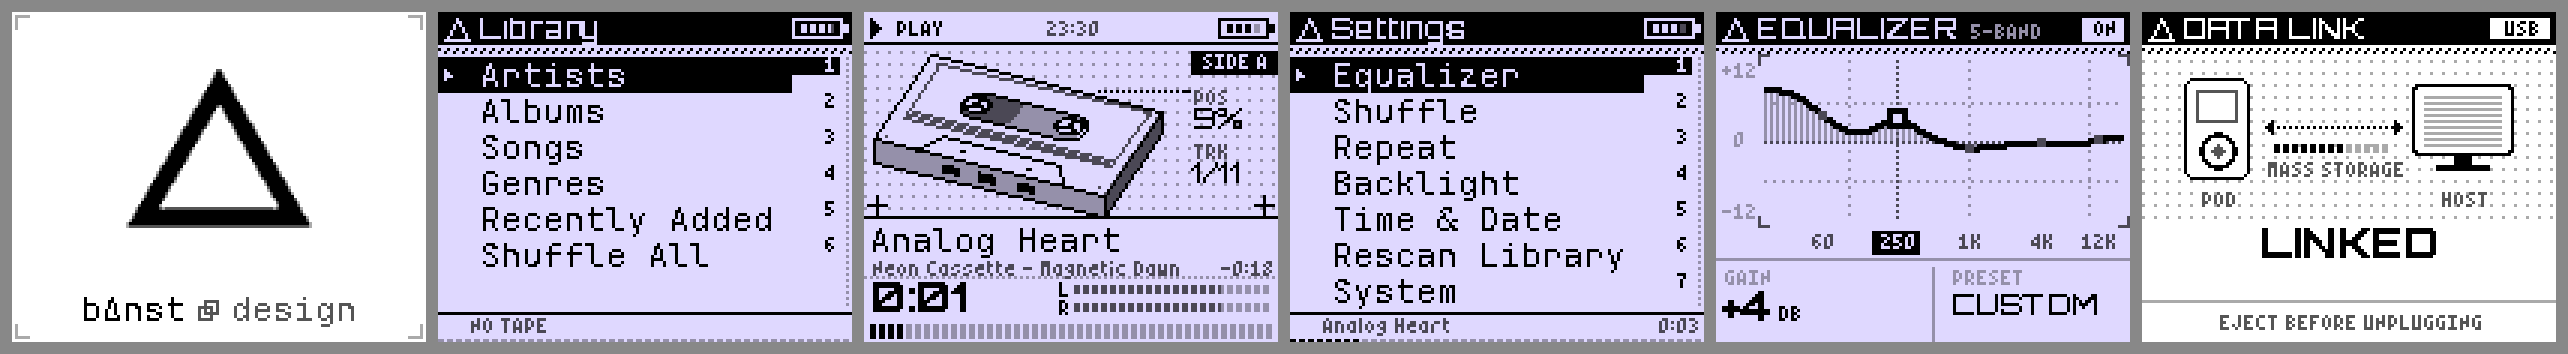
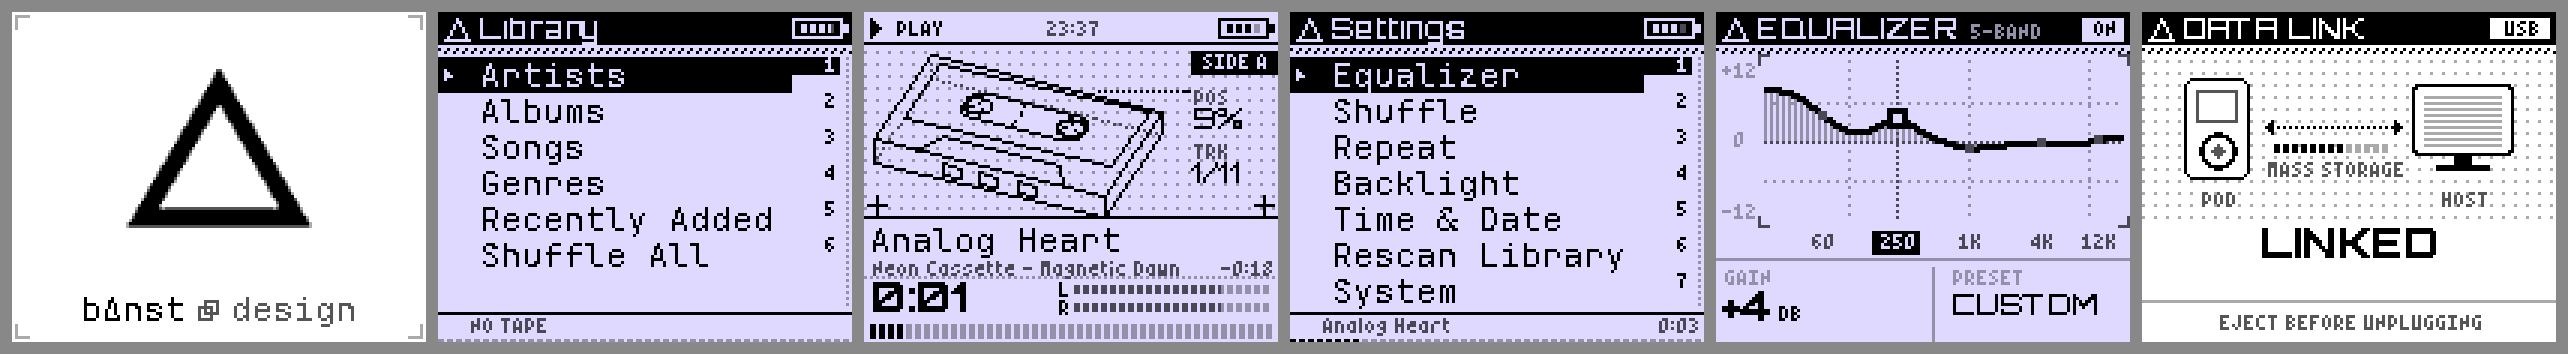
theme: wireframe cassette
The shaded cassette read as too busy at 138x110. It is now line art
only: visible edges solid, hidden ones dotted, the dot grid showing
through, spoked hub rings and dotted tape pack outlines.

Claude-Session: https://claude.ai/code/session_016WAUF3TsZL9kusqffkgzF3

Changed region(s): [[0.3427, 0.1864, 0.4673, 0.6215]]

diff --git a/tools/iso.py b/tools/iso.py
@@ -77,72 +77,75 @@ def window_outline(steps=40):
     return pts
 
 
-def shade_window(cas, c, tape, angle):
-    """Packs, hubs and spokes inside the window.
+def dotted(cas, c, a, b, v, gap=2):
+    (u0, v0), (u1, v1) = cas.p(*a), cas.p(*b)
+    n = max(1, int(math.hypot(u1 - u0, v1 - v0) / gap))
+    for i in range(n + 1):
+        t = i / n
+        c.set(round(u0 + (u1 - u0) * t), round(v0 + (v1 - v0) * t), v)
+
+
+def circle(cas, c, cx, cy, r, v, clip=None, steps=48, dots=False):
+    """Circle on the top face, projected to an ellipse."""
+    pts = [(cx + r * math.cos(2 * math.pi * i / steps),
+            cy + r * math.sin(2 * math.pi * i / steps)) for i in range(steps + 1)]
+    for i, ((x0, y0), (x1, y1)) in enumerate(zip(pts, pts[1:])):
+        if clip and not (clip(x0, y0) and clip(x1, y1)):
+            continue
+        if dots:
+            if i % 2 == 0:
+                c.set(*cas.ip(x0, y0), v)
+            continue
+        cas.line(c, (x0, y0, HGT), (x1, y1, HGT), v)
+
+
+def reels(cas, c, tape, angle):
+    """Tape pack outlines and spoked hubs.
 
     tape: 0 at the start of the track (all tape on the left reel) .. 1.
     angle: hub rotation in degrees.
     """
-    packs = ((HUB_L, PACK_MIN + (PACK_MAX - PACK_MIN) * (1 - tape)),
-             (HUB_R, PACK_MIN + (PACK_MAX - PACK_MIN) * tape))
+    for hx, pack in ((HUB_L, 1 - tape), (HUB_R, tape)):
+        circle(cas, c, hx, HUB_Y, PACK_MIN + (PACK_MAX - PACK_MIN) * pack,
+               INK, clip=in_window, steps=72, dots=True)
+        circle(cas, c, hx, HUB_Y, 5.5, INK)
+        for i in range(3):
+            a = math.radians(angle + i * 120)
+            cas.line(c, (hx + 2.0 * math.cos(a), HUB_Y + 2.0 * math.sin(a), HGT),
+                     (hx + 5.5 * math.cos(a), HUB_Y + 5.5 * math.sin(a), HGT), INK)
+
+
+def clear_window(cas, c):
+    """Wipe the window region back to the bare panel inside the outline."""
     bx0, by0, bx1, by1 = cas.window_box()
     for v in range(by0, by1):
         for u in range(bx0, bx1):
-            x, y = cas.unproject(u + 0.5, v + 0.5)
-            if not in_window(x, y):
-                continue
-            col = FAINT
-            for hx, pr in packs:
-                dx, dy = x - hx, y - HUB_Y
-                r = math.hypot(dx, dy)
-                if r <= pr:
-                    col = MID
-                if r <= 6.5:
-                    col = INK if r > 4.6 else PAPER
-                    if r <= 4.6:
-                        for i in range(3):
-                            a = math.radians(angle + i * 120)
-                            along = dx * math.cos(a) + dy * math.sin(a)
-                            perp = -dx * math.sin(a) + dy * math.cos(a)
-                            if along > 0 and abs(perp) < 1.1:
-                                col = INK
-                        if r < 1.5:
-                            col = INK
-            c.set(u, v, col)
+            if in_window(*cas.unproject(u + 0.5, v + 0.5)):
+                c.set(u, v, PAPER)
 
 
 def draw(cas, c, tape=0.5, angle=0.0):
-    p = cas.p
-    # faces: front and right end shaded for depth, top face blank
-    c.fill_poly([p(0, DEP, 0), p(LEN, DEP, 0), p(LEN, DEP), p(0, DEP)], FAINT)
-    c.fill_poly([p(LEN, 0, 0), p(LEN, DEP, 0), p(LEN, DEP), p(LEN, 0)], MID)
-    c.fill_poly([p(0, 0), p(LEN, 0), p(LEN, DEP), p(0, DEP)], PAPER)
+    """Wireframe: visible edges solid, hidden ones dotted, no fills."""
+    L, D, H = LEN, DEP, HGT
+    for a, b in (((0, 0, 0), (LEN, 0, 0)), ((0, 0, 0), (0, DEP, 0)),
+                 ((0, 0, 0), (0, 0, HGT))):
+        dotted(cas, c, a, b, MID)
 
-    # tape head openings on the front face
-    for x0 in (30, 46, 62):
-        c.fill_poly([p(x0, DEP, 3), p(x0 + 8, DEP, 3), p(x0 + 8, DEP, 8),
-                     p(x0, DEP, 8)], INK)
-
-    shade_window(cas, c, tape, angle)
-
-    # label, its colour band and the bottom ridge
-    cas.poly(c, [(5, 3, HGT), (95, 3, HGT), (95, 44, HGT), (5, 44, HGT)], MID)
-    cas.line(c, (7, 39, HGT), (93, 39, HGT), MID)
-    cas.line(c, (7, 41, HGT), (93, 41, HGT), MID)
-    cas.poly(c, [(18, DEP, HGT), (25, 51, HGT), (75, 51, HGT), (82, DEP, HGT)],
-             INK, closed=False)
-    for hx in (36, 64):
-        u, v = cas.ip(hx, 58)
-        c.rect(u, v, 2, 1, INK)
-    for sx, sy in ((4, 4), (96, 4), (4, 60), (96, 60)):
-        u, v = cas.ip(sx, sy)
-        c.set(u, v, MID)
-
+    clear_window(cas, c)
+    reels(cas, c, tape, angle)
     cas.poly(c, window_outline(), INK)
 
-    # silhouette and the visible edges
-    cas.poly(c, [(0, 0, HGT), (LEN, 0, HGT), (LEN, DEP, HGT), (0, DEP, HGT)], INK)
-    for a, b in (((0, DEP, HGT), (0, DEP, 0)), ((LEN, DEP, HGT), (LEN, DEP, 0)),
-                 ((LEN, 0, HGT), (LEN, 0, 0)), ((0, DEP, 0), (LEN, DEP, 0)),
-                 ((LEN, 0, 0), (LEN, DEP, 0))):
+    # label and the bottom ridge on the top face
+    cas.poly(c, [(5, 3, H), (95, 3, H), (95, 44, H), (5, 44, H)], INK)
+    cas.poly(c, [(18, D, H), (25, 51, H), (75, 51, H), (82, D, H)], INK,
+             closed=False)
+    # tape head openings on the front face
+    for x0 in (30, 46, 62):
+        cas.poly(c, [(x0, D, 3), (x0 + 8, D, 3), (x0 + 8, D, 8), (x0, D, 8)], INK)
+
+    # visible box edges
+    cas.poly(c, [(0, 0, H), (L, 0, H), (L, D, H), (0, D, H)], INK)
+    for a, b in (((0, D, H), (0, D, 0)), ((L, D, H), (L, D, 0)),
+                 ((L, 0, H), (L, 0, 0)), ((0, D, 0), (L, D, 0)),
+                 ((L, 0, 0), (L, D, 0))):
         cas.line(c, a, b, INK)

diff --git a/tools/mktheme.py b/tools/mktheme.py
@@ -202,6 +202,7 @@ for lvl in range(TAPE_LEVELS):
     frames = []
     for f in range(REEL_FRAMES):
         full = Canvas(LCD_W, LCD_H)
+        dot_grid(full, 0, 13, LCD_W - 1, 66)
         iso.draw(CAS, full, tape=lvl / (TAPE_LEVELS - 1), angle=f * 30)
         frames.append(full.crop(bx0, by0, bx1 - bx0, by1 - by0))
     save(vstack(frames), f"tape{lvl}.bmp")
